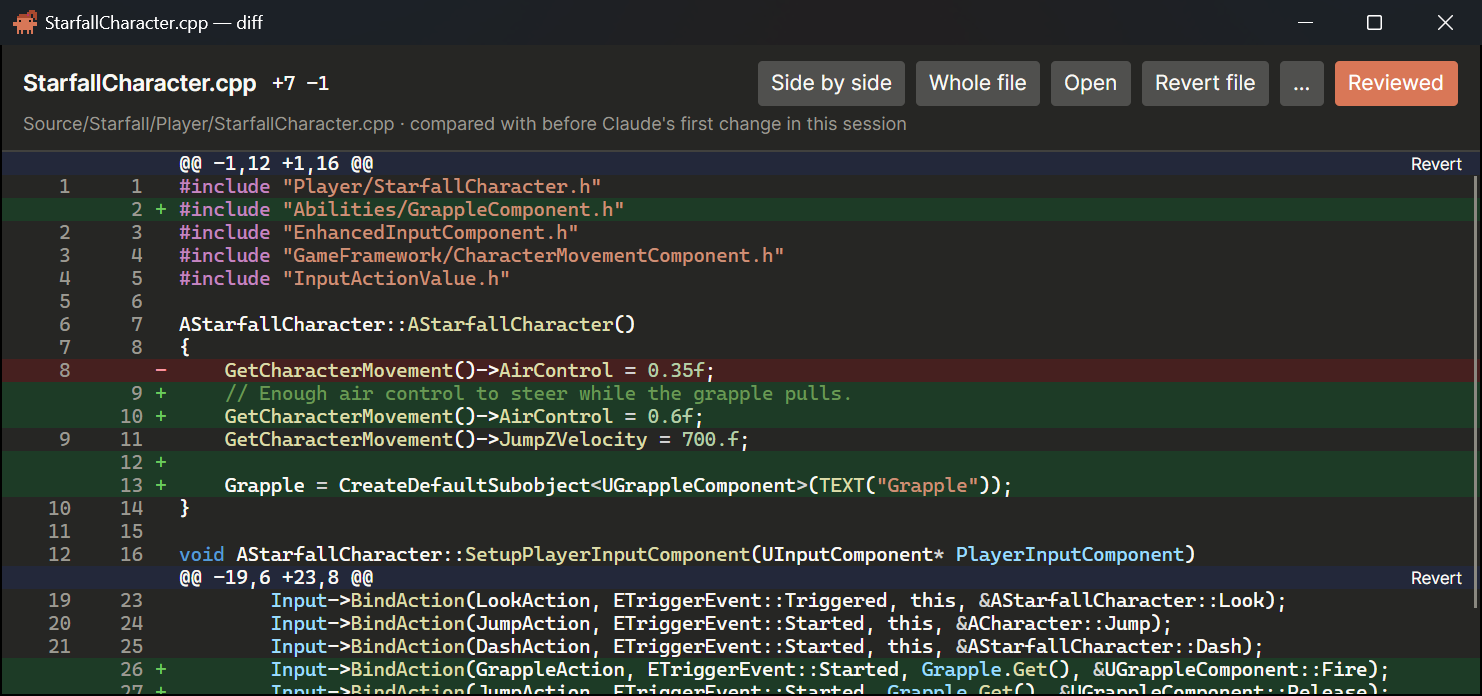
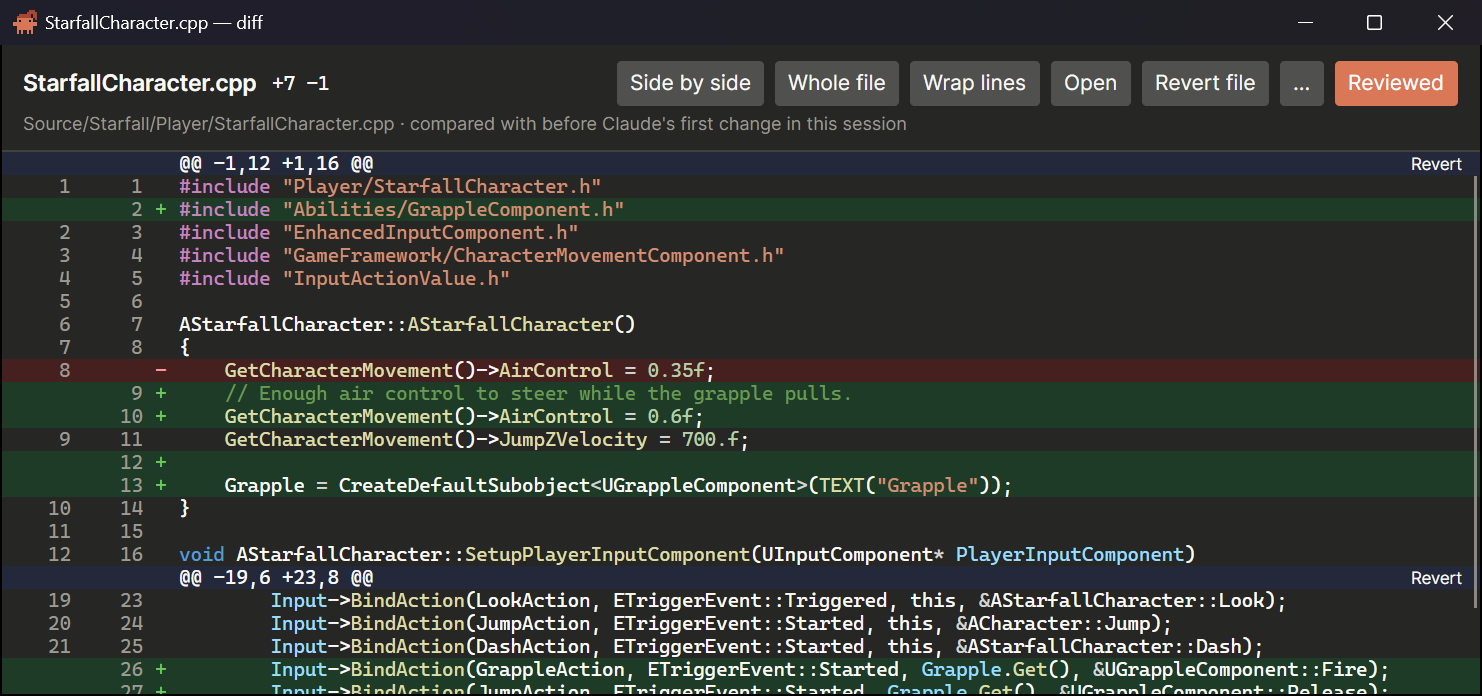
Wrap lines in the diff view
The diff window's header, and a Files tab's bar in Inline changes and Side
by side, have Wrap lines: long lines wrap at the width shown, each side in
its half, instead of scrolling sideways. Each diff starts as the last one
was left (the app state's DiffWordWrap).

Changed region(s): [[0.4035, 0.0905, 0.6829, 0.1509]]

diff --git a/src/Claudette.App/Diffs/DiffWindowViewModel.cs b/src/Claudette.App/Diffs/DiffWindowViewModel.cs
@@ -1,3 +1,4 @@
+using Claudette.App.Services;
 using Claudette.App.ViewModels;
 using Claudette.Core.Diffs;
 using CommunityToolkit.Mvvm.ComponentModel;
@@ -58,6 +59,7 @@ public sealed record SideBySideDiffRow(DiffCell? Left, DiffCell? Right, bool IsH
 /// Where <b>Revert</b> puts the text back instead of writing the file: the Project Files tab's editor (DESIGN.md §18,
 /// "Project files"), which compares with its own text. False when it couldn't.
 /// </param>
+/// <param name="WordWrap"><b>Wrap lines</b> as the last diff was left, kept for the next; null starts it off.</param>
 public sealed record DiffSource(
     string Path,
     string DisplayPath,
@@ -73,10 +75,28 @@ public sealed record DiffSource(
     DiffAfter? After = null,
     bool AllowRevert = true,
     Func<string?, bool>? RevertInto = null,
-    Func<Task>? OpenInSystem = null);
+    Func<Task>? OpenInSystem = null,
+    DiffWordWrap? WordWrap = null);
 
 /// <summary>A diff's "after" side that isn't the file now; null text means the file didn't exist then.</summary>
 public sealed record DiffAfter(string? Text);
+
+/// <summary>
+/// The diff view's <b>Wrap lines</b> (DESIGN.md §8): on to begin with when the last diff, in its window or a Files tab,
+/// was left with it on, and remembering how this one is left.
+/// </summary>
+public sealed record DiffWordWrap(bool IsOn, Action<bool> Remember)
+{
+    /// <summary>As the app state keeps it.</summary>
+    public static DiffWordWrap From(AppServices services) => new(services.State.DiffWordWrap, wrap =>
+    {
+        if (services.State.DiffWordWrap != wrap)
+        {
+            services.State.DiffWordWrap = wrap;
+            services.SaveState();
+        }
+    });
+}
 
 /// <summary>The diff view's <b>Reviewed</b> button (DESIGN.md §8, "Reviewed"). Called on the UI thread.</summary>
 /// <param name="LatestChange">The id of Claude's latest change to the file, or null when it hasn't changed it.</param>
@@ -104,6 +124,7 @@ public sealed partial class DiffWindowViewModel : ViewModelBase
         _source = source;
         _dark = dark;
         ShowWholeFile = !source.BeforeKnown;
+        WordWrap = source.WordWrap?.IsOn ?? false;
         _ = LoadAsync();
     }
 
@@ -147,6 +168,12 @@ public sealed partial class DiffWindowViewModel : ViewModelBase
     public partial bool ShowWholeFile { get; set; }
 
     partial void OnShowWholeFileChanged(bool value) => Build();
+
+    /// <summary><b>Wrap lines</b>: long lines wrap at the width shown, rather than scrolling sideways.</summary>
+    [ObservableProperty]
+    public partial bool WordWrap { get; set; }
+
+    partial void OnWordWrapChanged(bool value) => _source.WordWrap?.Remember(value);
 
     [ObservableProperty]
     public partial IReadOnlyList<InlineDiffRow> InlineRows { get; set; } = [];

diff --git a/tests/Claudette.App.Tests/ProjectFilesTests.cs b/tests/Claudette.App.Tests/ProjectFilesTests.cs
@@ -617,6 +617,44 @@ public class ProjectFilesTests
     }
 
     [Fact]
+    public async Task Each_diff_starts_with_Wrap_lines_as_the_last_one_was_left_in_a_Files_tab_or_the_diff_window()
+    {
+        await using var h = new TabTestHarness();
+        var path = Write(Path.Combine(h.WorkFolder, "a.txt"), "b\n");
+        var (tab, files) = await OpenFilesAsync(h);
+        var file = await files.OpenFileAsync(path, preview: false);
+        EmitEdit(h, "e1", path, before: "a\n");
+        await TabTestHarness.Eventually(() => tab.ChangedFiles.HasClaudeChange(path), "the change recorded");
+        h.Time.Advance(ProjectFilesViewModel.ChangesDelay);
+        await TabTestHarness.Eventually(() => file.HasChanges, "the change in the Files tab");
+        file.Mode = FileViewMode.Inline;
+        await TabTestHarness.Eventually(() => file.Diff is { IsLoading: false }, "the diff");
+        Assert.False(file.Diff!.WordWrap);
+
+        file.Diff.WordWrap = true;
+
+        Assert.True(h.Services.State.DiffWordWrap);
+        file.Mode = FileViewMode.SideBySide;
+        Assert.True(file.Diff!.WordWrap);
+        await TabTestHarness.Eventually(() => file.Diff is { IsLoading: false }, "the diff side by side");
+
+        // The diff window, from Changed files, starts wrapped too, and turning it off there carries back.
+        Diffs.DiffSource? requested = null;
+        tab.ChangedFiles.DiffRequested += source => requested = source;
+        await tab.ChangedFiles.OpenFileCommand.ExecuteAsync(new ChangedFileRow { Path = path, DisplayPath = "a.txt", Status = "M", StatusText = "Modified", Before = "a\n" });
+        var window = new Diffs.DiffWindowViewModel(requested!, dark: false);
+        await TabTestHarness.Eventually(() => !window.IsLoading, "the diff window");
+        Assert.True(window.WordWrap);
+
+        window.WordWrap = false;
+
+        Assert.False(h.Services.State.DiffWordWrap);
+        file.Mode = FileViewMode.Inline;
+        Assert.False(file.Diff!.WordWrap);
+        await TabTestHarness.Eventually(() => file.Diff is { IsLoading: false }, "the diff inline again");
+    }
+
+    [Fact]
     public async Task Show_only_changed_files_lists_Claudes_changes_by_path()
     {
         await using var h = new TabTestHarness();

diff --git a/tests/Claudette.App.UiTests/DiffWindowUiTests.cs b/tests/Claudette.App.UiTests/DiffWindowUiTests.cs
@@ -57,6 +57,49 @@ public class DiffWindowUiTests
     }
 
     [AvaloniaFact]
+    public async Task Wrap_lines_wraps_long_lines_at_the_width_shown_with_nothing_to_scroll_sideways()
+    {
+        var words = string.Join(' ', Enumerable.Repeat("word", 100));
+        await using var file = await DiffFile.CreateAsync("one\ntwo\n", $"one\n{words}\n{new string('x', 400)}\ntwo\n");
+        var (window, viewModel) = await ShowAsync(file);
+        var scroller = Shown<LineScroller>(window);
+        var lineHeight = Code(scroller).Single(c => c.Code == "one").Bounds.Height;
+        var toggle = window.GetVisualDescendants().OfType<ToggleButton>().Single(b => b.Content is "Wrap lines");
+
+        toggle.IsChecked = true;
+        UiText.Settle(window);
+
+        Assert.True(viewModel.WordWrap);
+        Assert.False(Bar(scroller).IsVisible);
+        Assert.Equal(0, scroller.ScrollableWidth);
+        // A line with nowhere to break, as a minified file's, wraps too.
+        var longLines = Code(scroller).Where(c => c.Code!.Length > 100).ToList();
+        Assert.Equal(2, longLines.Count);
+        Assert.All(longLines, code =>
+        {
+            Assert.True(code.Bounds.Height > lineHeight * 2);
+            Assert.Equal(0, code.Bounds.X);
+            Assert.True(code.Bounds.Width <= code.FindAncestorOfType<ScrollingLine>()!.Bounds.Width);
+        });
+
+        // Side by side, each side wraps in its half.
+        viewModel.IsSideBySide = true;
+        UiText.Settle(window);
+        var sides = Shown<LineScroller>(window);
+
+        Assert.False(Bar(sides).IsVisible);
+        Assert.Contains(Code(sides), code => code.Code == words && IsOnTheRight(code, sides) && code.Bounds.Height > lineHeight * 2);
+
+        // Off again: one line each, scrolling sideways.
+        toggle.IsChecked = false;
+        UiText.Settle(window);
+
+        Assert.True(Bar(sides).IsVisible);
+        Assert.True(sides.ScrollableWidth > 0);
+        Assert.All(Code(sides), code => Assert.Equal(lineHeight, code.Bounds.Height));
+    }
+
+    [AvaloniaFact]
     public async Task Lines_that_fit_have_no_sideways_scroll_bar()
     {
         await using var file = await DiffFile.CreateAsync("one\ntwo\n", "one\nthree\n");

diff --git a/src/Claudette.App/Controls/LineScroller.cs b/src/Claudette.App/Controls/LineScroller.cs
@@ -23,6 +23,9 @@ public sealed class LineScroller : DockPanel
     public static readonly StyledProperty<IEnumerable?> LinesProperty =
         AvaloniaProperty.Register<LineScroller, IEnumerable?>(nameof(Lines));
 
+    public static readonly StyledProperty<bool> WordWrapProperty =
+        AvaloniaProperty.Register<LineScroller, bool>(nameof(WordWrap));
+
     /// <summary>How far a notch of the mouse wheel scrolls, as it does in a ScrollViewer.</summary>
     private const double WheelStep = 50;
 
@@ -44,6 +47,16 @@ public sealed class LineScroller : DockPanel
     {
         get => GetValue(LinesProperty);
         set => SetValue(LinesProperty, value);
+    }
+
+    /// <summary>
+    /// The lines are laid out in the width there is, and nothing scrolls sideways. The text in them wraps by a style on
+    /// <c>LineScroller[WordWrap=True]</c>.
+    /// </summary>
+    public bool WordWrap
+    {
+        get => GetValue(WordWrapProperty);
+        set => SetValue(WordWrapProperty, value);
     }
 
     /// <summary>How far the code is scrolled from the start of the lines.</summary>
@@ -80,11 +93,25 @@ public sealed class LineScroller : DockPanel
         base.OnPropertyChanged(change);
         if (change.Property == LinesProperty)
         {
-            _widest = 0;
-            _bar.Value = 0;
-            Update();
+            Reset();
             ArrangeLines();
         }
+        else if (change.Property == WordWrapProperty)
+        {
+            // Wrapped, a line is measured in the width it has; unwrapped, at its full width again.
+            Reset();
+            foreach (var line in _lines)
+            {
+                line.InvalidateMeasure();
+            }
+        }
+    }
+
+    private void Reset()
+    {
+        _widest = 0;
+        _bar.Value = 0;
+        Update();
     }
 
     private void Update()

diff --git a/src/Claudette.App/Controls/ScrollingLine.cs b/src/Claudette.App/Controls/ScrollingLine.cs
@@ -6,7 +6,7 @@ namespace Claudette.App.Controls;
 
 /// <summary>
 /// A line of code in a <see cref="LineScroller"/>: laid out at its full width, however narrow the space it has, and moved
-/// sideways as the scroller scrolls. What doesn't fit is cut off.
+/// sideways as the scroller scrolls. What doesn't fit is cut off. When the scroller wraps, it has just the space it has.
 /// </summary>
 public sealed class ScrollingLine : Decorator
 {
@@ -37,13 +37,17 @@ public sealed class ScrollingLine : Decorator
         {
             return default;
         }
-        Child.Measure(availableSize.WithWidth(double.PositiveInfinity));
+        Child.Measure(Wraps ? availableSize : availableSize.WithWidth(double.PositiveInfinity));
         return new Size(Math.Min(Child.DesiredSize.Width, availableSize.Width), Child.DesiredSize.Height);
     }
 
     protected override Size ArrangeOverride(Size finalSize)
     {
-        if (Child is not null)
+        if (Wraps)
+        {
+            Child?.Arrange(new Rect(finalSize));
+        }
+        else if (Child is not null)
         {
             var width = Child.DesiredSize.Width;
             var offset = _scroller?.Arranged(width, finalSize.Width) ?? 0;
@@ -51,4 +55,6 @@ public sealed class ScrollingLine : Decorator
         }
         return finalSize;
     }
+
+    private bool Wraps => _scroller?.WordWrap == true;
 }

diff --git a/src/Claudette.App/ViewModels/ChangedFilesViewModel.cs b/src/Claudette.App/ViewModels/ChangedFilesViewModel.cs
@@ -296,7 +296,8 @@ public sealed partial class ChangedFilesViewModel : ViewModelBase
             change.BeforeKnown,
             After: after,
             AllowRevert: false,
-            OpenInSystem: () => OpenFileInSystemAsync(file)));
+            OpenInSystem: () => OpenFileInSystemAsync(file),
+            WordWrap: DiffWordWrap.From(_services)));
     }
 
     /// <summary>A turn's changes in the external diff tool: before the turn, against how it left the file, or the file now.</summary>
@@ -697,7 +698,8 @@ public sealed partial class ChangedFilesViewModel : ViewModelBase
                 () => Reviewed.IsReviewed(row.Path, Changes.Find(row.Path)),
                 change => SetFileReviewed(row.Path, reviewed: true, change)),
             FromGit: row.FromGit,
-            OpenInSystem: () => OpenFileInSystemAsync(row)));
+            OpenInSystem: () => OpenFileInSystemAsync(row),
+            WordWrap: DiffWordWrap.From(_services)));
     }
 
     /// <summary>

diff --git a/src/Claudette.Core/Settings/AppState.cs b/src/Claudette.Core/Settings/AppState.cs
@@ -112,6 +112,12 @@ public sealed class AppState
     public bool LogWordWrap { get; set; } = true;
 
     /// <summary>
+    /// The diff view wraps its long lines (DESIGN.md §8): each diff, in its window or a Files tab, starts with <b>Wrap
+    /// lines</b> as the last one was left.
+    /// </summary>
+    public bool DiffWordWrap { get; set; }
+
+    /// <summary>
     /// This machine's id in the session library's shared usage (DESIGN.md §6, "Sharing across machines"): made up once, so
     /// its file keeps its name when the machine's is changed, and two machines with the same name don't share a file.
     /// </summary>

diff --git a/src/Claudette.App/ViewModels/ProjectFileViewModel.cs b/src/Claudette.App/ViewModels/ProjectFileViewModel.cs
@@ -688,7 +688,8 @@ public sealed partial class ProjectFileViewModel : ViewModelBase, IDisposable
                 return false;
             },
             () => _owner.RevealAsync(Path), () => _owner.CopyPathAsync(Path), known,
-            After: new DiffAfter(text), AllowRevert: !IsReadOnly && !_comparingDisk, RevertInto: RevertInto), _owner.IsDarkTheme)
+            After: new DiffAfter(text), AllowRevert: !IsReadOnly && !_comparingDisk, RevertInto: RevertInto,
+            WordWrap: DiffWordWrap.From(_services)), _owner.IsDarkTheme)
         {
             IsSideBySide = Mode == FileViewMode.SideBySide,
         };

diff --git a/DESIGN.md b/DESIGN.md
@@ -1350,6 +1350,7 @@ Even **Forever** stays small: roughly tens of megabytes a year of heavy use.
   - The view is a window of its own, so it can stay open beside the conversation.
   - It shows the changes with a few lines of context, or the **Whole file**.
   - Long lines scroll sideways with a scroll bar along the bottom, Shift and the mouse wheel, or a touchpad. Every line scrolls together, both sides at once when they're side by side, and the line numbers stay where they are. The rows scroll up and down as usual.
+  - **Wrap lines.** ✅ Built 2026-10-24. A switch in the header beside **Whole file**, off to begin with: on, long lines wrap at the width shown, each side in its half when they're side by side, a line with nowhere to break (a minified file's) too, and nothing scrolls sideways. Each diff, in its window or a Files tab ([Project files](#project-files)), starts as the last one was left (the app state's `DiffWordWrap`).
   - Highlighting uses TextMate grammars, by file extension, with the dark or light theme to match the app. Files over 20,000 lines, and binary files, are shown without it. A line over 1,000 characters, as a minified file's, gets 50 ms and shows the rest in the default color; a shorter line is tokenized whole, since with a budget the first line of a freshly loaded grammar, or any line on a busy machine, could come back half colored.
   - A leading byte order mark isn't counted as a change.
 - Actions: open in external diff tool, open in external editor (the app the OS uses for that file type), copy path and **Reveal in folder**, in the Changed files rows' menu and the diff window's. **Open** goes to Claudette's own editor ([Project files](#project-files)) unless Settings → Files and diffs says otherwise, and **Open in the OS's app** stays.
@@ -3581,8 +3582,8 @@ A code editor for the project's files, in a tab of the project's own: a tree of 
     - Under the header are the lines the change replaced, highlighted, in the removed color.
     - **Revert** puts them back in the editor's text as one step, which Undo takes back. The file then has unsaved edits: nothing is written until it's saved.
     - `F3` and `F4`, the conversation's previous and next message ([§14](#keyboard-shortcuts)), go to the previous and next change and open its peek.
-  - **Inline and side by side.** For a file with changes, a bar under the tabs switches between **Edit**, **Inline changes** and **Side by side**. In a pane too narrow for the bar's one row, **Whole file** and **Reviewed** go onto a second.
-    - The last two are §8's diff view inside the tab, read-only, with **Whole file**, the highlighting, and **Revert** on each change.
+  - **Inline and side by side.** For a file with changes, a bar under the tabs switches between **Edit**, **Inline changes** and **Side by side**. In a pane too narrow for the bar's one row, **Whole file**, **Wrap lines** and **Reviewed** go onto a second.
+    - The last two are §8's diff view inside the tab, read-only, with **Whole file**, **Wrap lines**, the highlighting, and **Revert** on each change.
     - **Revert** there changes the editor's text, as the peek's does.
     - A double-click on a line goes back to **Edit** at that line.
     - Each open file keeps its own choice.

diff --git a/CHANGELOG.md b/CHANGELOG.md
@@ -13,6 +13,7 @@ The format follows [Keep a Changelog](https://keepachangelog.com/en/1.1.0/), and
 - **Ask questions on Discord.** **Ask on Discord**, in the **Help** menu beside the version at the foot of the Settings sidebar, opens dotBunny's Discord in your browser, where you can ask questions about Claudette. Problems still go to GitHub, through **Report an issue**. The command palette now has **User Guide**, **Ask on Discord** and **Report an issue** under *Help*, and on macOS the menu bar has a **Help** menu with all three.
 - **Turn a kind of project off.** Settings → Project tools has a page for each kind of project Claudette knows, Unreal Engine, Unity and Godot, each starting with **Recognize … projects**. Turn it off and Claudette treats those projects as plain folders: no project actions or editor logs for them, and nothing said to Claude about them, and the page says *Off* beside its name in the sidebar. A folder's own actions and links still work. Each page also has **Tell Claude about … projects**, and the defaults its projects start with.
 - **Settings from where you use them.** Claudette's right-click menu has **Claudette settings…**, the header's cup **Keep-awake settings…**, and a changed file's menu **Diff tool settings…**. Each opens Settings at those settings and picks them out for a moment.
+- **Wrap lines in the diff view.** The diff window has **Wrap lines** beside **Whole file**, and so does a Files tab's bar in **Inline changes** and **Side by side**. Turn it on and long lines wrap at the width shown, each side in its half when they're side by side, instead of scrolling sideways. The next diff you open starts the way you left the last one.
 
 ### Changed
 

diff --git a/docs/changes/the-diff-view.md b/docs/changes/the-diff-view.md
@@ -21,6 +21,7 @@ Click a file in [Changed files](changed-files.md), or select it and press `Enter
 - Inline shows one column of lines with the old ones marked `−` and the new ones `+`. **Side by side** puts the old file on the left and the new one on the right.
 - Lines are colored by the file's language, in the app's light or dark theme. Files over 20,000 lines and binary files are shown without colors.
 - Long lines scroll sideways, with the scroll bar along the bottom, `Shift` and the mouse wheel, or a touchpad. Both sides scroll together, and the line numbers stay where they are.
+- **Wrap lines** wraps long lines at the width of the window instead, each side in its half when they're side by side, so there's nothing to scroll sideways. The next diff you open, in its window or a [Files tab](../project-files/claudes-changes-in-the-editor.md), starts the way you left it.
 - A byte order mark at the start of a file isn't counted as a change.
 - A binary file says there's nothing to show line by line, and a file that's gone says it has been deleted.
 
@@ -30,7 +31,7 @@ When Claude changes the file while the window is open, choose **Refresh** in the
 
 The buttons along the top:
 
-- **Side by side** and **Whole file** switch how the changes show.
+- **Side by side**, **Whole file** and **Wrap lines** switch how the changes show.
 - **Open in diff tool** appears when you've set an [external diff tool](external-diff-tools.md).
 - **Open** opens the file, as described below.
 - **Revert file** puts the whole file back ([Reverting](reverting.md)). Each change has a **Revert** of its own on its header.

diff --git a/docs/project-files/claudes-changes-in-the-editor.md b/docs/project-files/claudes-changes-in-the-editor.md
@@ -48,9 +48,9 @@ Under the header are the lines the change replaced, in the removed color.
 For a file with changes, a bar under the file tabs switches between three views:
 
 - **Edit** is the editor.
-- **Inline changes** and **Side by side** are the [diff view](../changes/the-diff-view.md) inside the tab. They're read-only, with **Whole file**, the colors, and **Revert** on each change. **Revert** there changes the editor's text, as the peek's does.
+- **Inline changes** and **Side by side** are the [diff view](../changes/the-diff-view.md) inside the tab. They're read-only, with **Whole file**, **Wrap lines**, the colors, and **Revert** on each change. **Revert** there changes the editor's text, as the peek's does.
 
-A double-click on a line goes back to **Edit** at that line. Each open file keeps its own choice. In a pane too narrow for the bar's one row, **Whole file** and **Reviewed** go onto a second.
+A double-click on a line goes back to **Edit** at that line. Each open file keeps its own choice. In a pane too narrow for the bar's one row, **Whole file**, **Wrap lines** and **Reviewed** go onto a second.
 
 ## Reviewed
 
